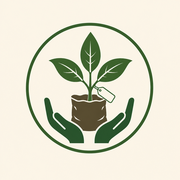
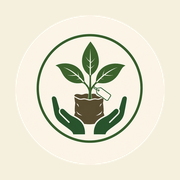
Add files via upload

Changed region(s): [[0.1389, 0.1111, 0.8611, 0.8611]]

diff --git a/index.html b/index.html
@@ -33,8 +33,8 @@
     </a>
     <nav class="nav-links" id="navLinks">
       <a href="#produk">Katalog</a>
-      <a href="#cara-pesan">Cara Pesan</a>
       <a href="#testimoni">Testimoni</a>
+      <a href="#cara-pesan">Cara Pesan</a>
       <a href="#kontak">Kontak</a>
     </nav>
     <a class="btn btn-fill btn-sm" style="display:none" id="navCta" href="https://wa.me/6282224415565?text=Halo%20Khanza%20Bibit%2C%20saya%20mau%20tanya%20bibit%20tanaman" target="_blank" rel="noopener">Chat Admin</a>
@@ -56,8 +56,8 @@
       </div>
     </div>
     <div class="hero-media">
-      <img src="images/alpukat-sab034.jpg" alt="Bibit alpukat unggul Khanza Bibit, kode SAB 034" width="756" height="1008">
-      <span class="hero-tag">Bibit Alpukat SAB&nbsp;034</span>
+      <img src="images/pucuk-merah.jpg" alt="Bibit Pucuk Merah unggulan Khanza Bibit, daun muda merah cerah" width="700" height="1244">
+      <span class="hero-tag">Bibit Pucuk Merah</span>
     </div>
   </section>
 
@@ -76,7 +76,7 @@
     <div class="section-head">
       <span class="eyebrow">Kenapa Pilih Kami</span>
       <h2>Kualitas yang Bisa Anda Percaya</h2>
-      <p>Kami memahami pentingnya mendapatkan bibit yang tepat dan berkualitas. Berikut yang kami utamakan dalam setiap pesanan.</p>
+      <p>Tiga hal ini yang selalu kami jaga di setiap pesanan.</p>
     </div>
     <div class="why-grid">
       <div class="why-item">
@@ -85,7 +85,7 @@
       </div>
       <div class="why-item">
         <h3>Garansi Tumbuh</h3>
-        <p>Bibit yang kami kirim bergaransi tumbuh. Untuk ketentuan lengkapnya, silakan tanyakan langsung ke admin sebelum memesan.</p>
+        <p>Bibit gagal tumbuh dalam masa garansi? Kami ganti — bukan cuma jual lalu lepas tangan.</p>
       </div>
       <div class="why-item">
         <h3>Pengiriman Aman</h3>
@@ -538,6 +538,34 @@
   </section>
 
 
+  <!-- TESTIMONI -->
+  <section class="testi-bg" id="testimoni">
+    <div class="wrap">
+      <div class="section-head">
+        <span class="eyebrow">Testimoni</span>
+        <h2>Apa Kata Pelanggan Kami</h2>
+        <p>Kami memiliki rating 5.0 di Google Maps. Berikut beberapa cerita dari pelanggan yang telah menanam bibit dari kami.</p>
+      </div>
+      <div class="testi-grid">
+        <div class="testi">
+          <div class="stars">&#9733;&#9733;&#9733;&#9733;&#9733;</div>
+          <p class="quote">"Bibitnya sampai dalam kondisi segar meski dikirim luar kota. Daunnya masih utuh semua."</p>
+          <div class="who">— Pelanggan Google Maps</div>
+        </div>
+        <div class="testi">
+          <div class="stars">&#9733;&#9733;&#9733;&#9733;&#9733;</div>
+          <p class="quote">"Admin ramah, dibantu terus soal cara rawat sampai bibit tumbuh baik."</p>
+          <div class="who">— Pelanggan WhatsApp</div>
+        </div>
+        <div class="testi">
+          <div class="stars">&#9733;&#9733;&#9733;&#9733;&#9733;</div>
+          <p class="quote">"Labelnya jelas, jadi yakin beli bibit yang sesuai pesanan, tidak tertukar."</p>
+          <div class="who">— Pelanggan Purworejo</div>
+        </div>
+      </div>
+    </div>
+  </section>
+
   <!-- CARA PESAN -->
   <section class="wrap" id="cara-pesan">
     <div class="section-head">
@@ -564,34 +592,6 @@
         <div class="step-tag">04</div>
         <h3>Bibit Dikirim</h3>
         <p>Bibit dikemas dengan aman dan dikirim langsung ke alamat Anda.</p>
-      </div>
-    </div>
-  </section>
-
-  <!-- TESTIMONI -->
-  <section class="testi-bg" id="testimoni">
-    <div class="wrap">
-      <div class="section-head">
-        <span class="eyebrow">Testimoni</span>
-        <h2>Apa Kata Pelanggan Kami</h2>
-        <p>Kami memiliki rating 5.0 di Google Maps. Berikut beberapa cerita dari pelanggan yang telah menanam bibit dari kami.</p>
-      </div>
-      <div class="testi-grid">
-        <div class="testi">
-          <div class="stars">&#9733;&#9733;&#9733;&#9733;&#9733;</div>
-          <p class="quote">"Bibitnya sampai dalam kondisi segar meski dikirim luar kota. Daunnya masih utuh semua."</p>
-          <div class="who">— Pelanggan Google Maps</div>
-        </div>
-        <div class="testi">
-          <div class="stars">&#9733;&#9733;&#9733;&#9733;&#9733;</div>
-          <p class="quote">"Admin ramah, dibantu terus soal cara rawat sampai bibit tumbuh baik."</p>
-          <div class="who">— Pelanggan WhatsApp</div>
-        </div>
-        <div class="testi">
-          <div class="stars">&#9733;&#9733;&#9733;&#9733;&#9733;</div>
-          <p class="quote">"Labelnya jelas, jadi yakin beli bibit yang sesuai pesanan, tidak tertukar."</p>
-          <div class="who">— Pelanggan Purworejo</div>
-        </div>
       </div>
     </div>
   </section>

diff --git a/css/style.css b/css/style.css
@@ -112,7 +112,12 @@
     display:grid;
     grid-template-columns:1fr;
   }
-  @media(min-width:960px){ .hero{ grid-template-columns: 1fr 0.92fr; } }
+  .hero-media{ order:-1; }
+  .hero-copy{ order:0; }
+  @media(min-width:960px){
+    .hero{ grid-template-columns: 1fr 0.92fr; }
+    .hero-media{ order:0; }
+  }
   .hero-copy{
     display:flex; flex-direction:column; justify-content:center;
     padding:56px 26px 40px;